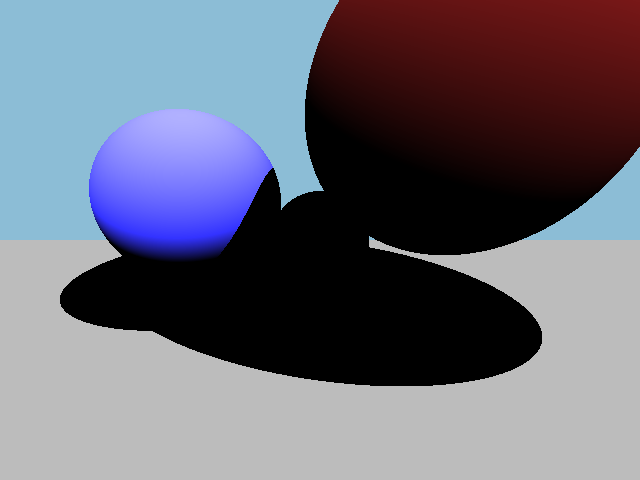
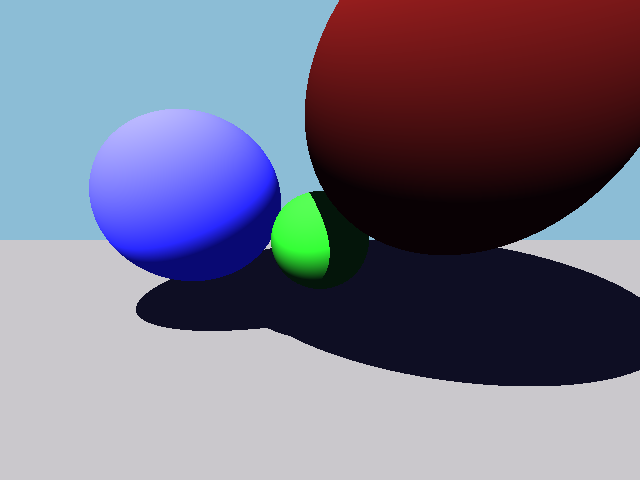
support for multiple lights and ambient lights

diff --git a/src/lib.rs b/src/lib.rs
@@ -37,27 +37,34 @@ pub fn render(config: &Config) -> DynamicImage {
 fn get_color(config: &Config, ray: &Ray, intersection: &Intersection) -> Color {
   let hit_point = ray.origin + (ray.direction * intersection.distance);
   let surface_normal = intersection.object.surface_normal(&hit_point);
-  let direction_to_light = -config.scene.light.direction;
 
-  let shadow_ray = Ray {
-    origin: hit_point + (direction_to_light * config.shadow_bias),
-    direction: direction_to_light,
-  };
-  let in_light = config.scene.trace(&shadow_ray).is_none();
+  let mut color = Color::black();
 
-  let light_intensity = if in_light {
-    config.scene.light.intensity
-  } else {
-    0.0
-  };
+  for light in &config.scene.lights {
+    let direction_to_light = light.direction();
 
-  let light_power = (surface_normal.dot(&direction_to_light) as f32).max(0.0) * light_intensity;
-  let light_reflected = intersection.object.material().albedo / std::f32::consts::PI;
+    let light_power: f32;
 
-  let color = intersection.object.material().color.clone()
-    * config.scene.light.color.clone()
-    * light_power
-    * light_reflected;
+    if let Some(direction_to_light) = direction_to_light {
+      let shadow_ray = Ray {
+        origin: hit_point + (surface_normal * config.shadow_bias),
+        direction: direction_to_light,
+      };
+      let shadow_intersection = config.scene.trace(&shadow_ray);
+      let in_light = shadow_intersection.is_none();
+
+      let light_intensity = if in_light { light.intensity() } else { 0.0 };
+
+      light_power = (surface_normal.dot(&direction_to_light) as f32).max(0.0) * light_intensity;
+    } else {
+      light_power = light.intensity();
+    }
+
+    let light_reflected = intersection.object.material().albedo / std::f32::consts::PI;
+
+    let light_color = light.color() * light_power * light_reflected;
+    color = color + (intersection.object.material().color * light_color);
+  }
 
   color.clamp()
 }

diff --git a/src/scene.rs b/src/scene.rs
@@ -46,6 +46,42 @@ pub struct DirectionalLight {
 }
 
 #[derive(Serialize, Deserialize, Debug)]
+pub struct AmbientLight {
+  pub color: Color,
+  pub intensity: f32,
+}
+
+#[derive(Serialize, Deserialize, Debug)]
+#[serde(tag = "type")]
+pub enum Light {
+  Directional(DirectionalLight),
+  Ambient(AmbientLight),
+}
+
+impl Light {
+  pub fn color(&self) -> Color {
+    match self {
+      Light::Directional(l) => l.color,
+      Light::Ambient(l) => l.color,
+    }
+  }
+
+  pub fn intensity(&self) -> f32 {
+    match self {
+      Light::Directional(l) => l.intensity,
+      Light::Ambient(l) => l.intensity,
+    }
+  }
+
+  pub fn direction(&self) -> Option<Vector3> {
+    match self {
+      Light::Directional(l) => Some(-l.direction),
+      Light::Ambient(_) => None,
+    }
+  }
+}
+
+#[derive(Serialize, Deserialize, Debug)]
 pub struct Sky {
   pub color: Color,
 }
@@ -53,6 +89,6 @@ pub struct Sky {
 #[derive(Serialize, Deserialize, Debug)]
 pub struct Scene {
   pub sky: Sky,
-  pub light: DirectionalLight,
+  pub lights: Vec<Light>,
   pub objects: Vec<Object>,
 }
